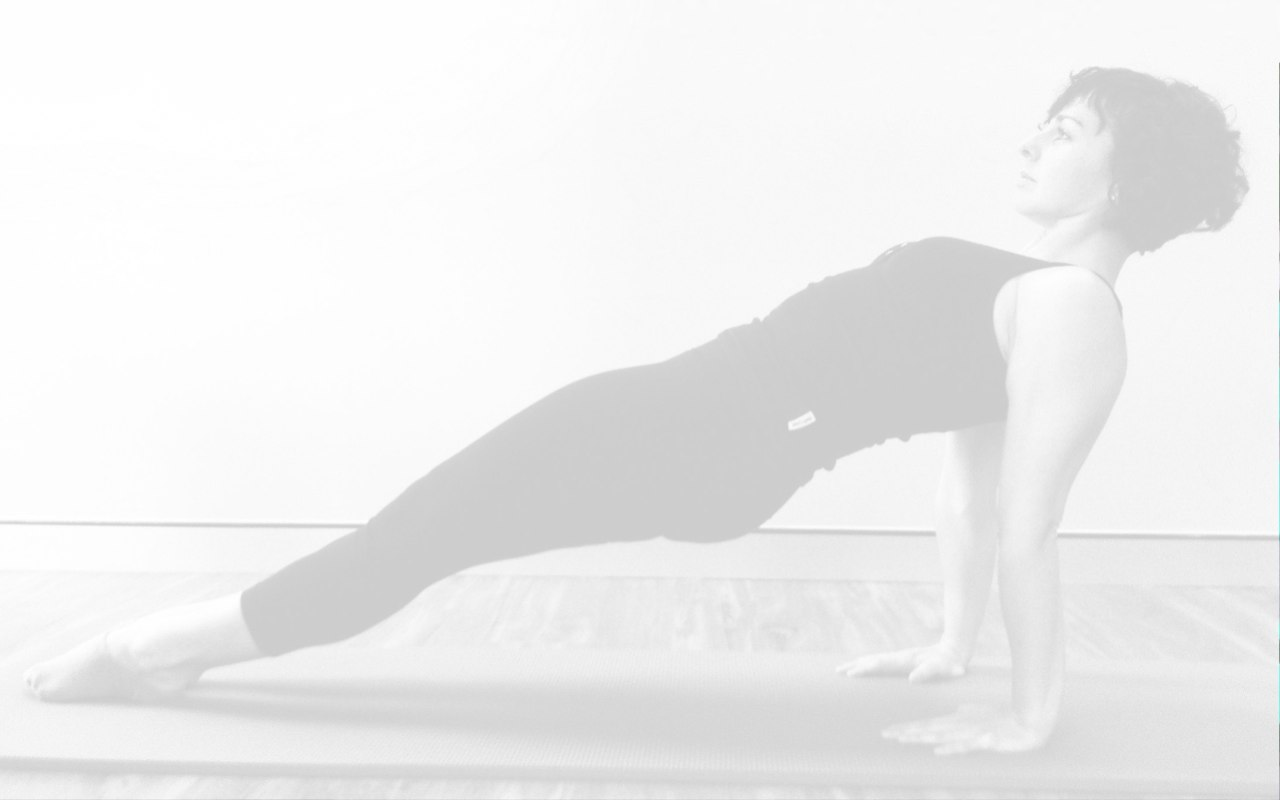
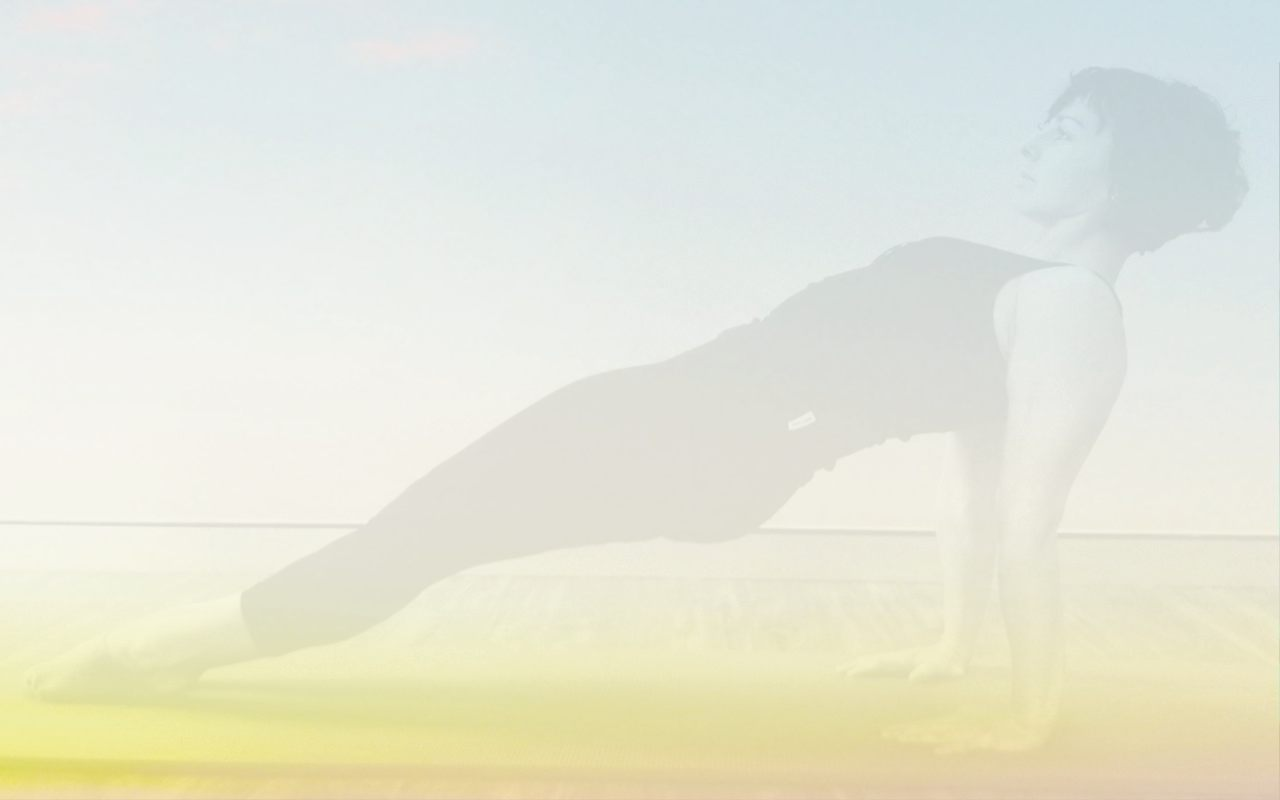
Changed background theme to coloured
Updated timetable

diff --git a/index.html b/index.html
@@ -24,8 +24,8 @@
 
 <img class="background page page-about hidden-phone" src="images/background_about.jpg" />
 <img class="background page page-location hidden-phone hidden-desktop" src="images/background_location.jpg" />
-<img class="background page page-timetable hidden-phone hidden-desktop" src="images/background_about.jpg" />
-<img class="background page page-contact hidden-phone hidden-desktop" src="images/background_about.jpg" />
+<img class="background page page-timetable hidden-phone hidden-desktop" src="images/background_colored_d.jpg" />
+<img class="background page page-contact hidden-phone hidden-desktop" src="images/background_contact.jpg" />
 
 <div class="navbar-wrapper">
 	<div class="container">
@@ -118,64 +118,79 @@ pilates is a system of body conditioning that not only improves your core streng
 
 <a class="anchor" name="timetable"></a>
 <div class="container page page-timetable hidden-desktop">
-	<div class="row" style="margin-top:40px">
-		<div class="span5 current-dates">	
-			<h2>Current Timetable for<h2>
-			<h3>Term 3: Mon 27 May  -  Mon 22 July<h3>
-			<h4>
-				Monday classes finish 1 week later due to public holiday
-			<h4>
+	<div class="row" style="margin-top:30px">
+		<!-- 
+<div class="span3 hidden-phone hidden-tablet">
+				<img id="logo-timetable" src="./images/logo.png" style="margin-top: -1 0px">
 		</div>
-		<div class="timetable">
-			<div class="span5 offset 7">
+ -->
+		<div class="span5 current-dates">	
+			<h2>Winter Timetable<h2>
+			<div class="timetable">
 				<table class="table table-hover">
 					<tr>
-						 <td>Monday<td> 
-						 <td> 
-								4.45pm<br><span class="level">Level 2</span>
-						 </td> 
-						 <td>
-								5.45pm<span class="level">Level 2</span>
-						 </td>
+						<td>Monday</td> 
+						<td> 
+								4.45pm
+						</td>
+						<td>
+								Level 2
+						</td> 
+					</tr>
+					<tr>
+						<td>
+						</td>
+						<td>
+								5.45pm
+						</td>
+						<td>
+								Level 2
+						</td>
 					</tr>
 
 					<tr>
-						<td> Thursday <td>
+						<td> Thursday </td>
 						<td>
-							5pm<span class="level">Level 1</span>
+							5.00pm
 						</td>
 						<td>
-							6pm<span class="level">Level 1</span>
+							Level 1
+						</td>
+					</tr>
+					<tr>
+						<td>
+						</td>
+						<td>
+							6.00pm
+						</td>
+						<td>
+							Level 1
 						</td>
 					</tr>
 				</table>
-			</div>
-		</div>
-	</div>
-	<div class="row">
-		
-	</div>
-	
-</div>
-	
-	<div class="container page page-timetable hidden-desktop ">
-		<div class="row">
-			<div class="span3 hidden-phone hidden-tablet">
-				<img id="logo-timetable" src="./images/logo.png">
-			</div>
-				<div class="span7 offset1 term-dates">
-						<h2>Remaining 2013 Term Dates<h2>
-						<h3>Term 4: 	Mon 29 July - Thurs 19 September<h3>
-						<h3>Term 5: 	Thurs 3 October - Mon 25 November<h3>
-						<h4>Monday classes start 1 week later due to public holiday<h4>
-						<h3>Summer series 2013/2014
-						<h3>Mon 2 Dec - Thurs 19 Dec (break) Mon 6 Jan - Thurs 23 Jan <h3>
-						<h4>To be confirmed: a 6 week series including a 2 week break for the Christmas/New Year period<h4>
-		
+				<div class="call-to-action">
+				**New classes coming in Term 5!**
+<a href="mailto:laura@ithrive.net.au">Email Laura</a> and have your say about your preferred times
 				</div>
+			</div>
+		</div>
+		<div class="span7 term-dates">
+			<div class="dates-heading"><h2>Remaining 2013 Term Dates</h2></div>
+			<h3>Term 4: 	Mon 29 July - Thurs 19 September<h3>	
+			<h3>Term 5: 	Thurs 3 October - Mon 25 November<h3>
+			<h4>Monday classes start 1 week later due to public holiday<h4>
+			<h2>Summer series 2013/2014<h2>
+			<h3>Mon 2 Dec - Thurs 19 Dec (break) Mon 6 Jan - Thurs 23 Jan <h3>
+			<h4>To be confirmed: a 6 week series including a 2 week break for the Christmas/New Year period<h4>
+		</div>
+	</div>
+	<div class="row joseph-quote">
+		<div class="span12">
+		"Pilates is designed to give you suppleness, natural grace & skill that will be unmistakably reflected in the way you walk, in the way you play & in the way you work" <br><i>Joseph Pilates</i> 
 		</div>
 	</div>
 </div>
+
 		
 
 <a class="anchor" name="location"></a>
@@ -203,7 +218,9 @@ pilates is a system of body conditioning that not only improves your core streng
 	<div class="row">
 		<div class="span12 contact-info">
 			For more information or to book into a course please email:<br>
-			<h3>laura@ithrive.net.au<h3>
+				<div class="email-address">
+					<a href="mailto:laura@ithrive.net.au">laura@ithrive.net.au</a>
+				</div>
 		</div>
 	</div>
 </div>

diff --git a/css/main.css b/css/main.css
@@ -4,6 +4,8 @@
 	font-weight: 100; 
 	font-size: 18pt;
 	line-height: 1.3em;
+	text-shadow: -1px -1px 0px rgba(255, 255, 255, 0.6), 1px 1px 0px rgba(0, 0, 0, 0.4);
+	
 /* 
 	text-shadow: -1px -1px rgba(0,0,0, 0.2), 2px 2px rgba(255,255,255, 0.6);
  */
@@ -33,9 +35,8 @@ body .background {
 	z-index: -1;
 }
 
-sup {
-	color: inherit !important;
-	font-size: inherit !important;
+a {
+	color: rgb(134, 194, 65);	
 }
 
 a.anchor {
@@ -102,13 +103,16 @@ a.anchor {
 	width: 70%;
 }
 
-.welcome{
+.welcome {
 	font-size: 120%;
 	font-weight: bolder;
 	color: rgb(134, 194, 65);
 	padding: 0.5em 0;
-	text-shadow: -1px -1px 0px rgba(255, 255, 255, 0.3), 1px 1px 0px rgba(0, 0, 0, 0.2)
-	
+	text-shadow: -1px -1px 0px rgba(255, 255, 255, 0.6), 1px 1px 0px rgba(0, 0, 0, 0.4)	
+}
+
+.info {
+	text-shadow: -1px -1px 0px rgba(255, 255, 255, 0.6), 1px 1px 0px rgba(0, 0, 0, 0.4);
 }
 
 .picture-circles {
@@ -118,7 +122,6 @@ a.anchor {
 h2 {
 /* font-size: 80%; */
 	font-weight: 100;
-	
 }
 
 h3 {
@@ -144,25 +147,53 @@ tr > td:nth-child(4) {
 	padding-top: 20px;
 }
 
+.table td { 
+	line-height: 30px;
+	
+}
+
+
+/* 
+
 .level {
 	display: block;
+ */
 }
 .timetable-sidenote {
 	font-style: italic;
 	font-weight: 100;
 	font-size: 65%;
-	padding-bottom: 20px
+/* 	padding-bottom: 20px */
+}
+.call-to-action {
+	font-size: 80%;
+	background: white;
 }
 
-.term-dates {
-	margin-top: 80px;
+.dates-heading {
+	padding-bottom: 1px;
 }
+
+.joseph-quote {
+	text-align: center;
+	padding-top: 40px;
+}
+/* 
+.term-dates {
+	margin-top: 20px;
+}
+ */
 
 .contact-info {
 	text-align: center;
+	text-shadow: -1px -1px 0px rgba(255, 255, 255, 0.6), 1px 1px 0px rgba(0, 0, 0, 0.4);
 }
 
-
+.email-address {
+	font-weight: 300 !important;
+	color: rgb(134, 194, 65)!important;
+	text-shadow: -1px -1px 0px rgba(255, 255, 255, 0.6), 1px 1px 0px rgba(0, 0, 0, 0.2)!important;
+}
 /* LOCATION STUFF: */
 
 .page-location .row {
@@ -234,8 +265,17 @@ tr > td:nth-child(4) {
 	.table tr td .level {
 		font-size: 12pt;
 	}
+	
+	.call-to-action {
+		font-size: 12pt;
+	}
+	
 	.timetable {
-		margin-top: 0px;
+		padding-top: 0px;
+	}
+	
+	.joseph-quote {
+		padding-top: 5px;
 	}
 	.term-dates {
 	 	margin-top: 0px;
